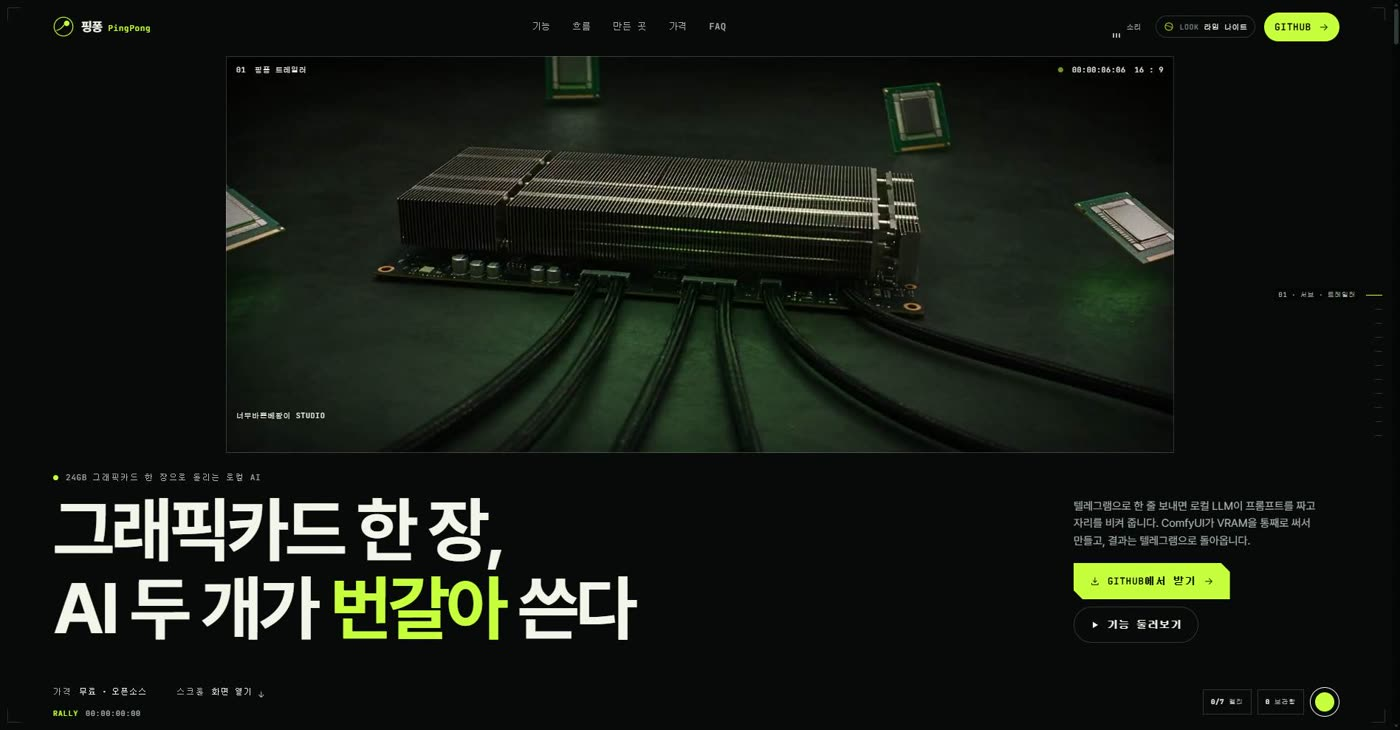
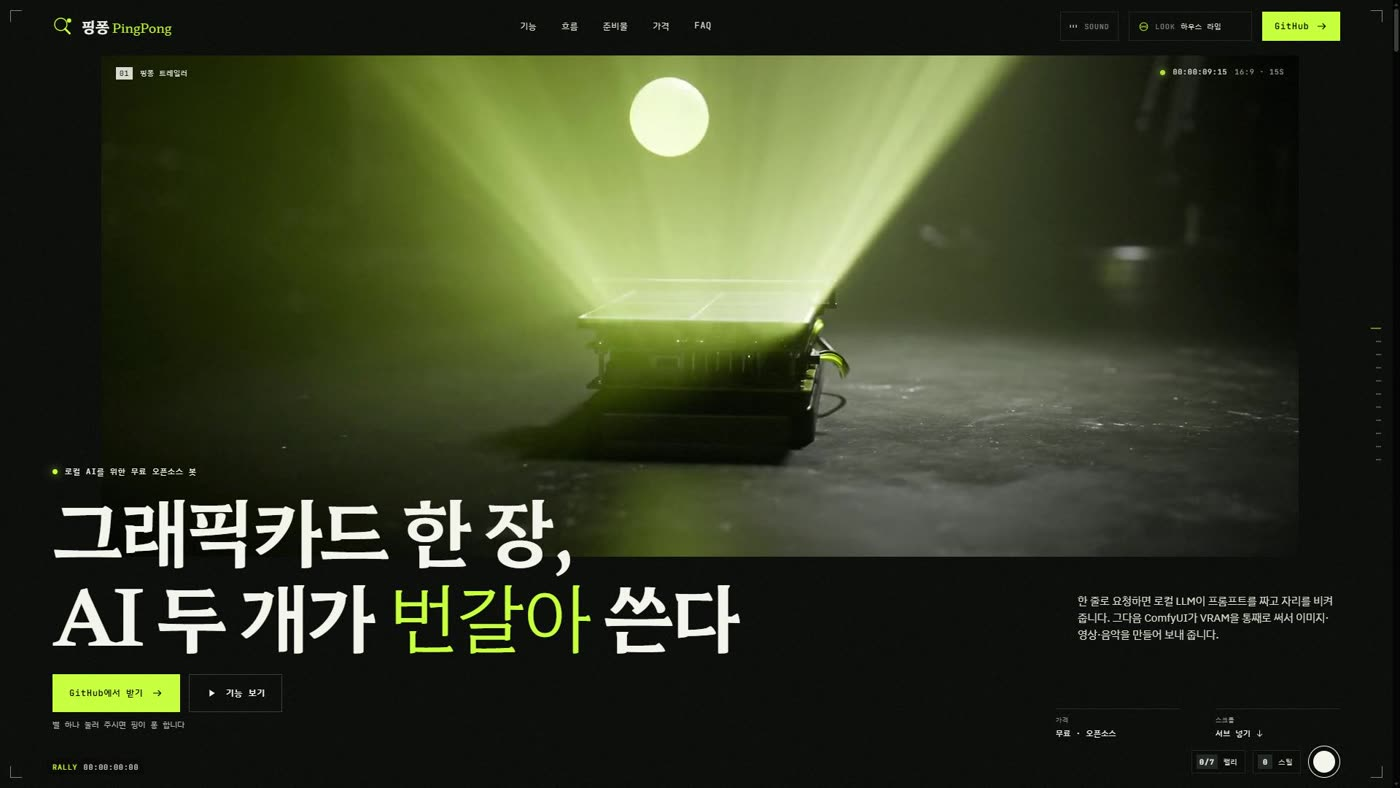
docs: 소개 사이트 링크·배너를 최종판(toobusy-pingpong.higgsfield.app)으로

diff --git a/README.md b/README.md
@@ -10,9 +10,9 @@
 
 > **너무바쁜베짱이** 제작 · 코다 & 크룩스 🦗 · 무료 오픈소스
 
-[![핑퐁 소개 사이트](docs/pingpong-site.jpg)](https://pingpong.higgsfield.app)
+[![핑퐁 소개 사이트](docs/pingpong-site.jpg)](https://toobusy-pingpong.higgsfield.app)
 
-**소개 사이트:** https://pingpong.higgsfield.app (사이트의 사진·영상은 AI로 만든 이미지입니다)
+**소개 사이트:** https://toobusy-pingpong.higgsfield.app (사이트의 사진·영상은 AI로 만든 이미지입니다)
 
 한 줄로 요청하면 **로컬 LLM이 프롬프트를 짜고 → 자리를 비켜 주고 → ComfyUI가 VRAM을 통째로 써서 생성 → 결과를 보내 줍니다.** 다음 요청이 오면 LLM이 다시 올라옵니다.
 24GB 그래픽카드 한 장(RTX 3090급)에서 로컬 LLM과 ComfyUI가 **VRAM을 번갈아 쓰는(핑퐁)** 구조라 둘 다 무리 없이 돌아갑니다.
